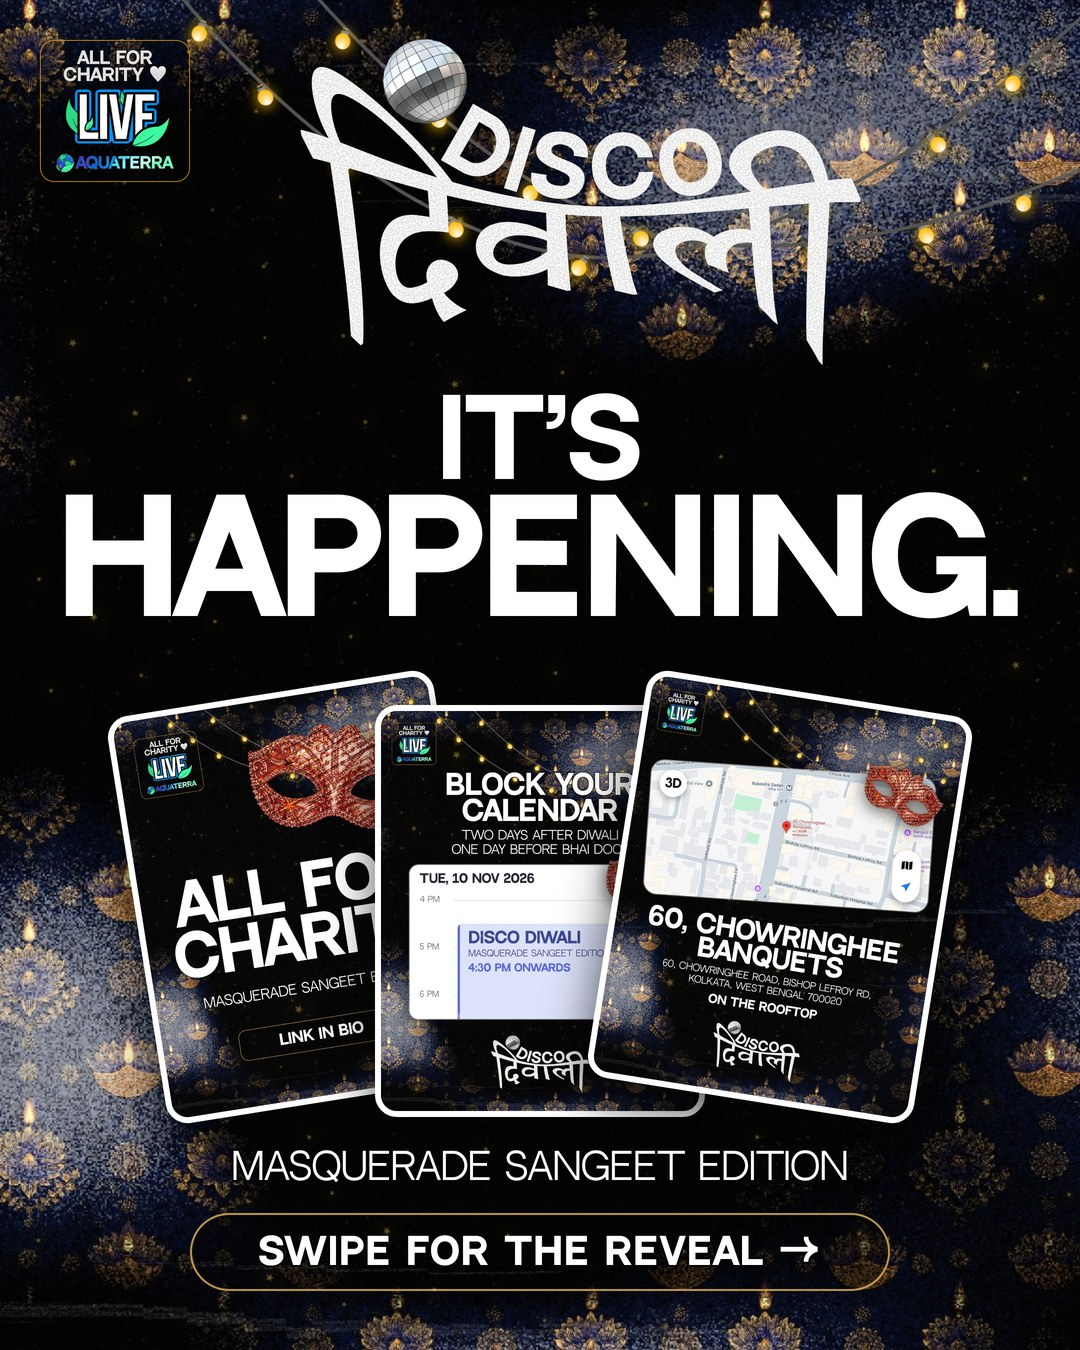
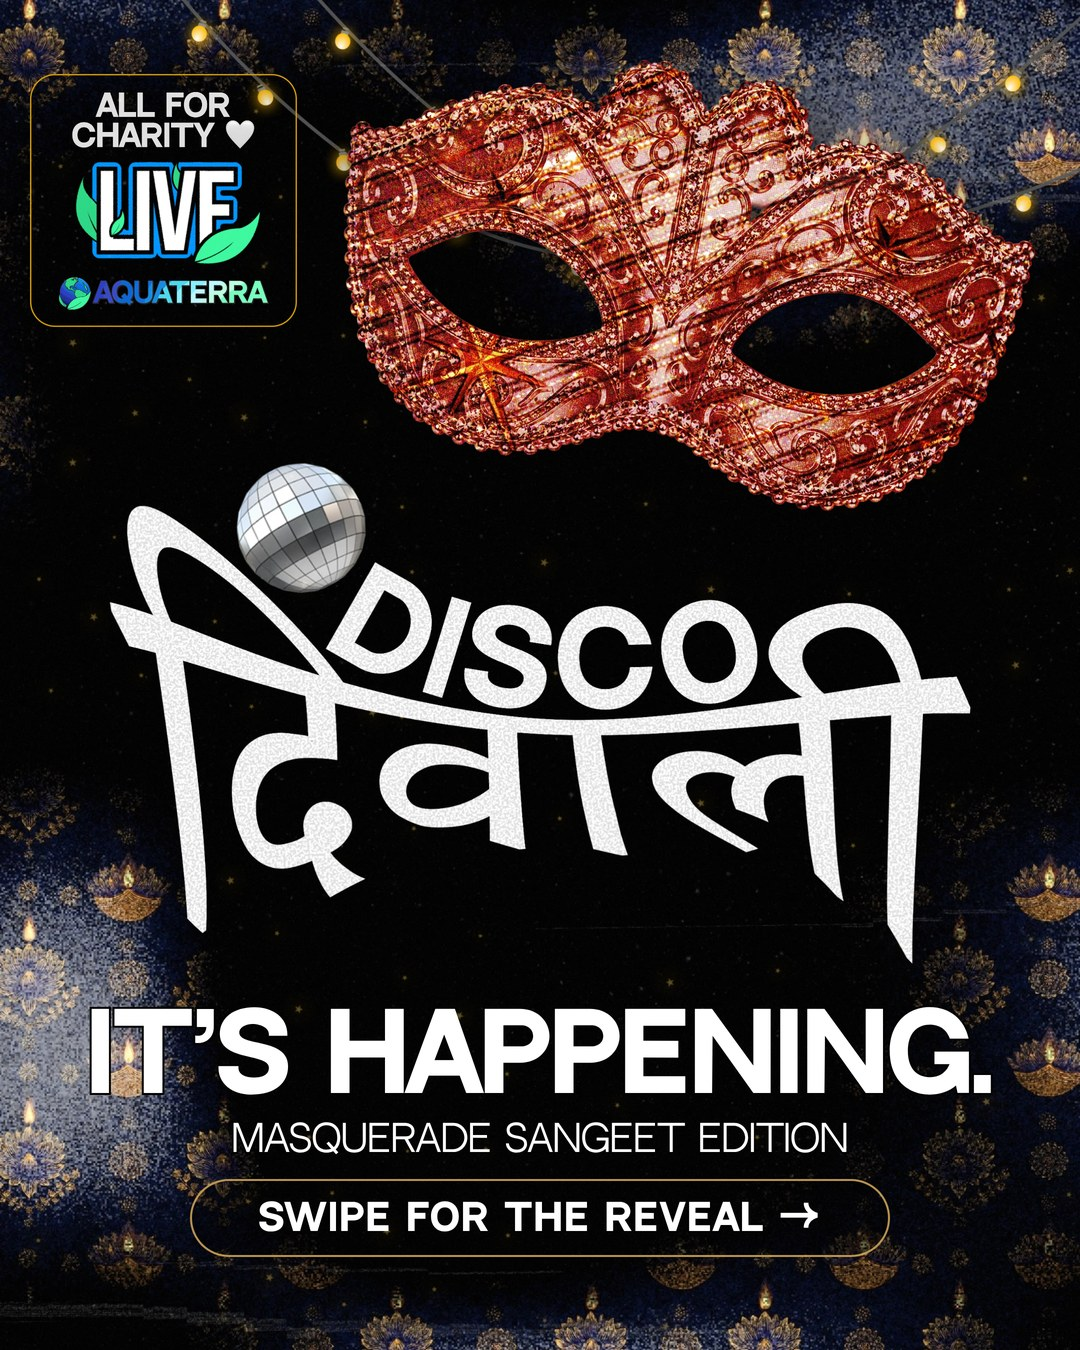
Disco Diwali cover v3: remove the fanned slide cards so the date and location stay hidden
Claude-Session: https://claude.ai/code/session_01SvqxkoTEENgXPyjFifmnqB

diff --git a/scratchpad/dd_cover.py b/scratchpad/dd_cover.py
@@ -1,9 +1,7 @@
-"""DISCO DIWALI carousel cover (feed 1080x1350), v2 "hype": IT'S HAPPENING. over the three real slides fanned like cards.
-
-Carousel: slide 2 ALL FOR CHARITY, slide 3 the date reveal, slide 4 the location reveal. The cover teases them: the lockup (with its ball) up top, a huge
-IT'S HAPPENING. headline, the three actual slides fanned like a hand of cards (charity left, date middle, location right), the edition line and a SWIPE FOR THE REVEAL pill. Repeats no date, time or venue as text (the cards carry them, tiny, as teaser).
-Copy is the user's brief ("make it fun and create hype") plus supplied facts only: IT'S HAPPENING is a claim of nothing but the event existing; no price, lineup or
-ticket date. Run: PYTHONIOENCODING=utf-8 python scratchpad/dd_cover.py"""
+"""DISCO DIWALI carousel cover (feed 1080x1350), v3 "hype, no reveals": the lockup with its ball, the copper mask, the LIVE badge, IT'S HAPPENING., the edition line
+and a SWIPE FOR THE REVEAL pill. Carousel: slide 2 ALL FOR CHARITY, slide 3 the date reveal, slide 4 the location reveal. The cover must NOT show the date or the
+location (user, 2026-10-19: the fanned-slides version leaked both), so it carries neither as text nor as a picture of the later slides.
+Copy: IT'S HAPPENING is the user's brief ("fun, hype") expressed as copy, a claim of nothing but the event existing. Run: PYTHONIOENCODING=utf-8 python scratchpad/dd_cover.py"""
 import asyncio, base64, importlib.util, math, os, sys
 ROOT = os.path.dirname(os.path.dirname(os.path.abspath(__file__)))
 sys.path.insert(0, os.path.join(ROOT, "engine"))
@@ -13,8 +11,6 @@ B = dd.B
 W, H = 1080, 1350
 OUT = os.path.join(ROOT, "out", "discodiwali", "cover")
 STROKE = "color:#fff;-webkit-text-stroke:4px #000;paint-order:stroke fill;"
-SLIDES = [("sample_outputs/disco_diwali_captcha/slide_4.jpg", -9), ("sample_outputs/disco_diwali_date/feed.jpg", 0), ("sample_outputs/disco_diwali_location/feed.jpg", 9)]
-CW, CH = 330, 412                                            # card size, 4:5
 
 
 def jpg(path):
@@ -31,31 +27,23 @@ def build():
     parts.append('<div data-tag="plate" style="position:absolute;inset:0;z-index:0;background:#000"></div>'
                  f'<img data-tag="plate" src="{dd.uri("bg_diya_portrait.jpg")}" style="position:absolute;left:0;top:0;width:{W}px;height:{H}px;object-fit:cover;z-index:1">'
                  f'<img data-tag="lights" src="{dd.uri("string_lights.png")}" style="position:absolute;left:160px;top:-53px;width:1045px;z-index:5">')
-    parts.append(f'<img data-tag="badge" src="{dd.uri("live_badge.png")}" style="position:absolute;left:40px;top:40px;width:150px;z-index:20">'); els.append(("badge", 40, 40, 150, round(150 * 1005 / 1061)))
-    # lockup with ball, top centre, visible box 265..1982 x 320..1311, drawn 560 wide
-    vw = 560; t = vw / 1717; vh = round(991 * t); vx = (W - vw) // 2 + 40; vy = 40
+    # copper mask, visible box 343..1035 x 60..512 (the poster_ref placement lifted 48px to make room for the headline)
+    k = .4925; my = 60
+    parts.append(f'<img data-tag="mask" src="{dd.uri("mask_copper.png")}" style="position:absolute;left:{round(343 - 157 * k)}px;top:{round(my - 211 * k)}px;width:{round(1680 * k)}px;z-index:6;'
+                 f'filter:drop-shadow(0 8px 26px rgba(0,0,0,.6))">'); els.append(("mask", 343, my, 692, 452))
+    parts.append(f'<img data-tag="badge" src="{dd.uri("live_badge.png")}" style="position:absolute;left:30px;top:74px;width:267px;z-index:8">'); els.append(("badge", 30, 74, 267, 248))
+    # lockup WITH its ball, visible box 265..1982 x 320..1311 of the 2000x1382 asset, drawn 860 wide
+    vw = 860; t = vw / 1717; vh = round(991 * t); vx = (W - vw) // 2; vy = 465
     parts.append(f'<img data-tag="title" src="{dd.uri("title_lockup.png")}" style="position:absolute;left:{round(vx - 265 * t)}px;top:{round(vy - 320 * t)}px;width:{round(2000 * t)}px;z-index:9">')
     els.append(("title", vx, vy, vw, vh))
-    # headline
     def line(tag, txt, top, size, weight, h, extra=""):
         parts.append(f'<div data-tag="{tag}" style="position:absolute;left:0;width:{W}px;top:{top}px;text-align:center;font-family:var(--d);font-weight:{weight};font-size:{size}px;line-height:1;'
                      f'text-transform:uppercase;white-space:nowrap;{STROKE}{extra}z-index:20">{txt}</div>'); els.append((tag, 40, top, 1000, h))
-    hy = vy + vh + 28
-    line("h1", "It&rsquo;s", hy, 104, 700, 100)
-    line("h2", "happening.", hy + 98, 150, 700, 146)
-    # fan of the three real slides
-    cy = hy + 98 + 146 + 36 + CH // 2 + 20
-    xs = (300, 540, 780)
-    z = (11, 12, 13)
-    for (path, deg), cx, zi in zip(SLIDES, xs, z):
-        parts.append(f'<div data-tag="card{zi}" style="position:absolute;left:{cx - CW // 2}px;top:{cy - CH // 2 + (14 if deg == 0 else 0)}px;width:{CW}px;height:{CH}px;transform:rotate({deg}deg);z-index:{zi};'
-                     f'border:6px solid #fff;border-radius:22px;overflow:hidden;box-sizing:border-box;box-shadow:0 22px 48px rgba(0,0,0,.65)">'
-                     f'<img src="{jpg(path)}" style="width:100%;height:100%;object-fit:cover;display:block"></div>')
-        els.append((f"card{zi}",) + rot_box(cx, cy + (14 if deg == 0 else 0), CW, CH, deg))
-    # edition + swipe pill
-    ey = cy + CH // 2 + 48
+    hy = vy + vh + 44
+    line("headline", "It&rsquo;s happening.", hy, 104, 700, 100)
+    ey = hy + 118
     line("edition", "Masquerade Sangeet Edition", ey, 36, 400, 38)
-    sy = ey + 62
+    sy = ey + 56
     sw, sh = 700, 78
     parts.append(f'<div data-tag="swipe" style="position:absolute;left:{(W - sw) // 2}px;top:{sy}px;width:{sw}px;height:{sh}px;border:2px solid rgba(214,170,90,.85);border-radius:39px;background:rgba(0,0,0,.4);'
                  f'display:flex;align-items:center;justify-content:center;font-family:var(--d);font-weight:700;font-size:36px;white-space:nowrap;text-transform:uppercase;letter-spacing:2px;{STROKE}z-index:20">Swipe for the reveal &rarr;</div>')
@@ -70,7 +58,7 @@ async def main():
     inner, els, bottom = build()
     print(f"[cover] last element ends at y={bottom} of {H}")
     async with B.session():
-        await B.render(B.page(W, H, "#000", inner, grain=False), os.path.join(OUT, "cover.png"), W, H, elements=els, containers=(), bleed_tags=("plate",), crop_tags=("plate", "card11", "card12", "card13"),
-                       page_bg="#000", collision_ignore=[("card11", "card12"), ("card12", "card13"), ("title", "badge"), ("h2", "card12"), ("h2", "card11"), ("h2", "card13")])
+        await B.render(B.page(W, H, "#000", inner, grain=False), os.path.join(OUT, "cover.png"), W, H, elements=els, containers=(), bleed_tags=("plate",), crop_tags=("plate",),
+                       page_bg="#000", collision_ignore=[("mask", "title"), ("badge", "title"), ("mask", "badge")])
     print("cover done ->", OUT)
 asyncio.run(main())

diff --git a/brain/DISCO_DIWALI.md b/brain/DISCO_DIWALI.md
@@ -91,7 +91,7 @@ Feed 1080x1350 and story 1080x1920 from a user inspo (a tilted rounded map card 
 Feed 1080x1350 and story 1080x1920 from a user inspo (a headline over a photo with a calendar-event card floating under it). The headline teases (BLOCK YOUR CALENDAR, then TWO DAYS AFTER DIWALI / ONE DAY BEFORE BHAI DOOJ, supplied by the user 2026-10-19. UNVERIFIED AGAINST A KOLKATA PANCHANG: Diwali 2026 is Sunday 8 November, but several web sources list Bhai Dooj on 10 November, which would make the event day itself Bhai Dooj; Bengal's Bhai Phota may fall a day later. Confirm before posting) and a drawn white calendar card reveals: "Tue, 10 Nov 2026" (the weekday is DERIVED from the supplied date), hour lines 4, 5 and 6 PM, and one periwinkle event block (DISCO DIWALI, MASQUERADE SANGEET EDITION, 4:30 PM ONWARDS) that starts half way between the 4 and 5 PM lines and runs off the card's bottom edge, because the supplied time has no end. The card is a drawn UI device, not a screenshot (no Google or Apple marks); the periwinkle exists only as the calendar's own colour. Same family as the location poster: diya ground, string lights, LIVE badge, copper mask across the card's top-right corner, the lockup with its ball as a footer mark, no pill. No venue, price or lineup. Lesson: a 3-hour calendar card needs a half-hour offset, not a guessed pixel, to make "4:30" read right.
 
 ### Carousel cover (2026-10-19) — `scratchpad/dd_cover.py`, JPEG in `sample_outputs/disco_diwali_cover/`
-Cover for the three-slide set (ALL FOR CHARITY, date reveal, location reveal), v2 "fun and hype" (user: the first calm cover was rejected). The lockup with its ball sits small at the top, then a huge IT'S HAPPENING. headline, the THREE REAL SLIDES fanned like a hand of cards (charity, date, location, white borders, -9/0/+9 degrees), MASQUERADE SANGEET EDITION and a SWIPE FOR THE REVEAL pill. Rendering the real slides as the teaser means the cover cannot drift from what follows, but it also means the cover inherits any unconfirmed claim on them (the Bhai Dooj line). The headline is the user's brief ("fun, hype") expressed as copy, not a supplied fact. Lessons: an extra mask piled on a card that already carried one (cut); a pill's arrow wrapped to a second line until the text was `nowrap` and the pill widened.
+Cover for the three-slide set (ALL FOR CHARITY, date reveal, location reveal), v3. The user asked for fun and hype, then rejected the version that fanned the three real slides under the headline: **the cover must not reveal the date or the location** (they are the point of slides 3 and 4), neither as text nor as a picture of those slides. So it carries: the lockup WITH its ball (860 wide), the copper mask and LIVE badge, IT'S HAPPENING., MASQUERADE SANGEET EDITION and a SWIPE FOR THE REVEAL pill. The headline is the user's brief ("fun, hype") expressed as copy, a claim of nothing but the event existing. Lessons: teaser art that quotes the later slides leaks exactly what the teaser exists to withhold; a headline set 28px under the lockup's hanging strokes read as touching, 44px clears it.
 
 ## 6. Conflicts with CLAUDE.md and how they were resolved (precedence ladder, sec 2)
 - Ground, palette and fonts differ from the AQ house style. Resolved as a format exception, like TerraThon. The format wins inside `discodiwali.py` only.
